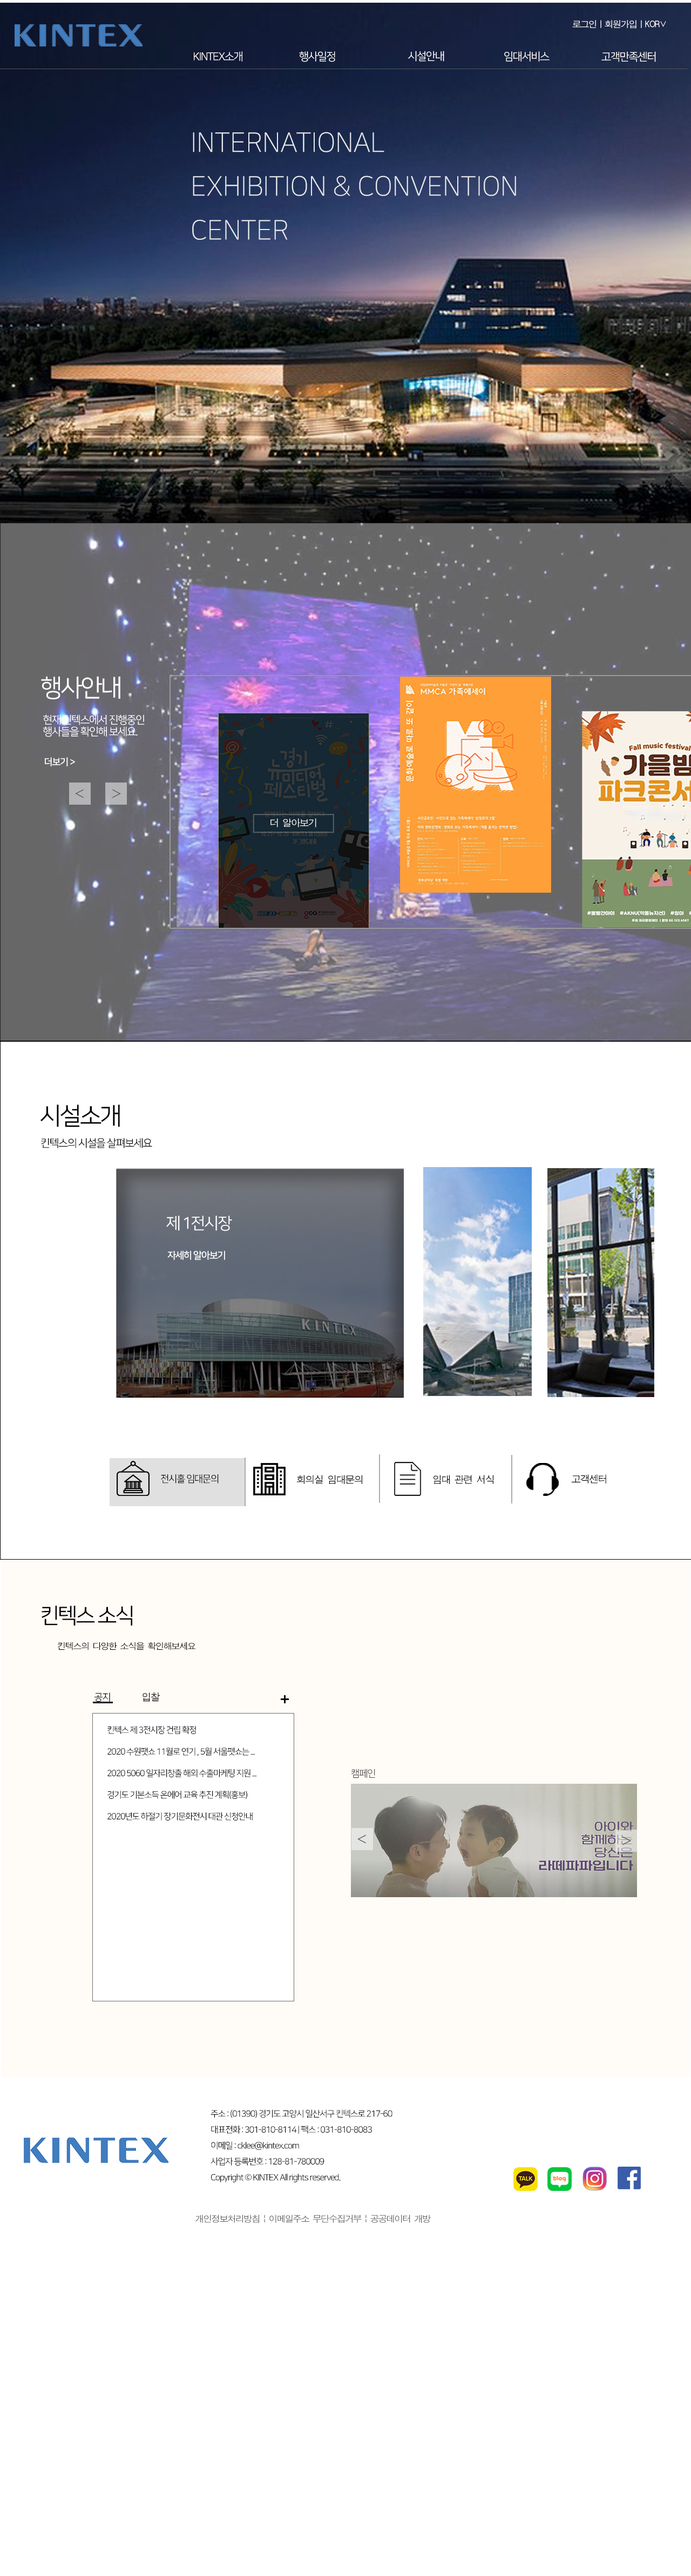
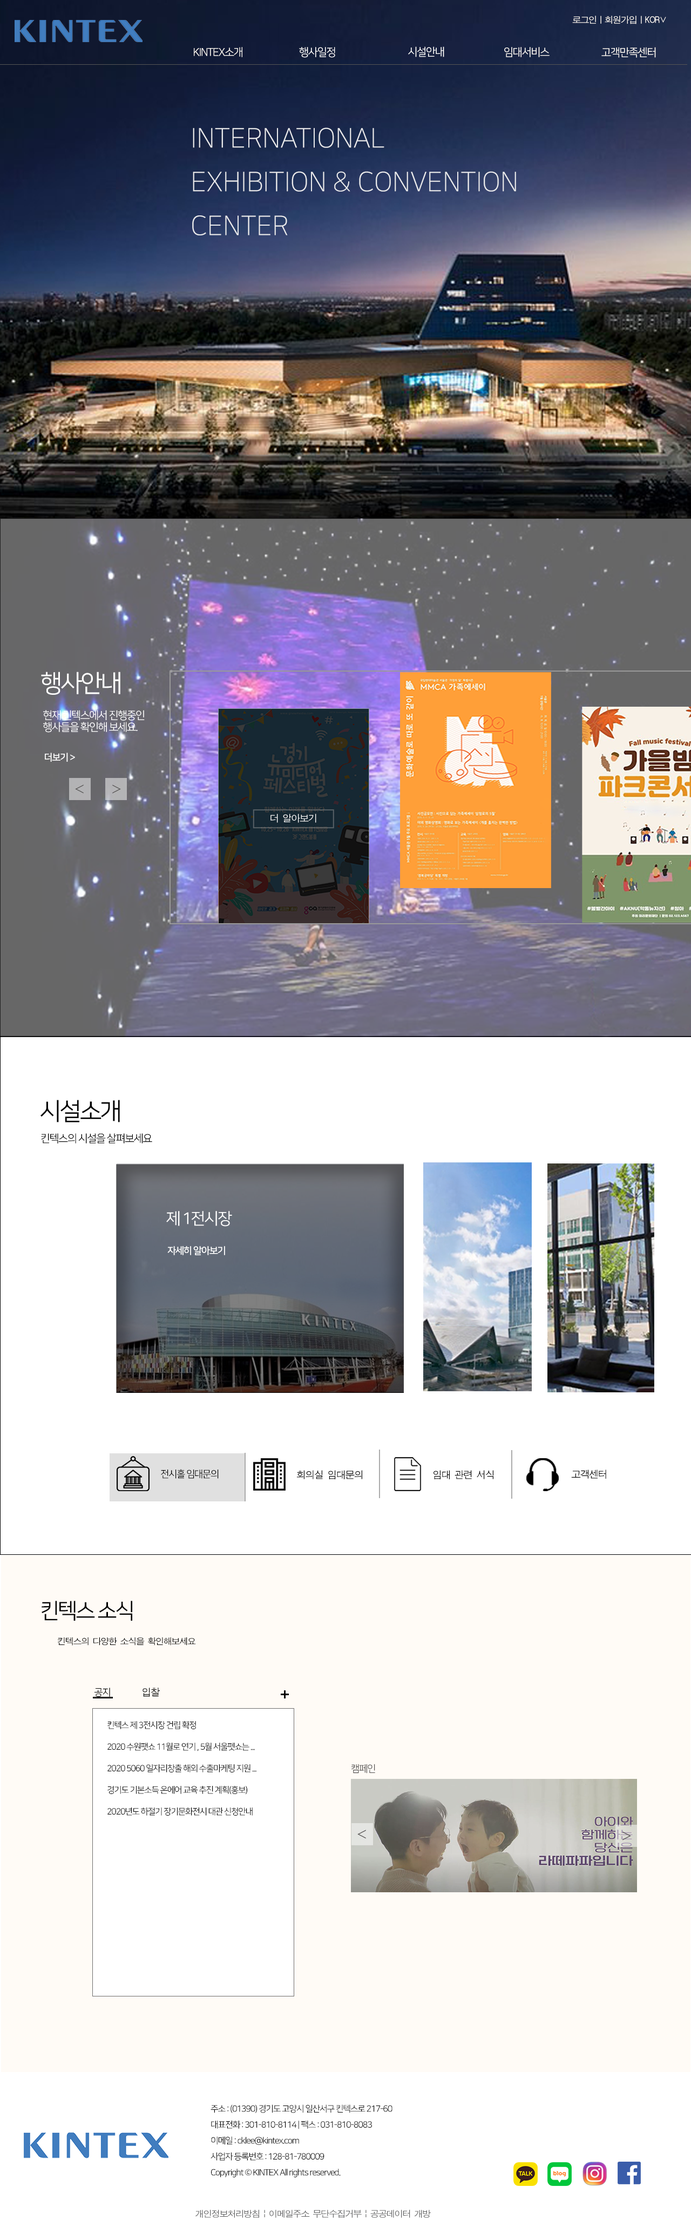
인덱스 및 css 수정

diff --git a/index.html b/index.html
@@ -58,7 +58,8 @@ h2{
   </header><!--헤더-->
   <section id="sec1">
      <video src="img/main_bg.mp4" muted autoplay></video>
-      <p class="result" style="font-size: 30px;"></p>      
+      <p class="result"></p>   
+      <p class="second">박지현의 포트폴리오입니다.</p>
   </section><!--ㅡmain1-->
    
   <section id="sec2">  
@@ -93,7 +94,7 @@ h2{
         </ul>
         <div class="about_txt">
             <i class="fas fa-quote-left"></i>
-            <span>아무말 아무말 아무말 아무말 아무말..주저리 주저리...</span>
+            <span>마음가짐, 장기적인 목표, 미래상 등등의 포부</span>
             <i class="fas fa-quote-right"></i>            
         </div>
      </article> 
@@ -120,18 +121,19 @@ h2{
               </li>
               <li>
                   <img class="view" src="img/mac.png" alt="모니터화면">
-                  <div class="slide_Up">
+                  <div class="slide_Up2">
                       <!--<img src="http://placehold.it/390x550" alt="">-->
                   </div>
                   <div class="explanation">
-                      <h3>01</h3>
-                      <p><span>프로젝트명</span> : ONLYBATH 가상홈페이지 제작[팀프로젝트]</p>
-                      <p><span>설명</span> : 최근 인테리어 시공업체의 디자인 트렌드를 조사 후에 가상의 회사의 컨셉을 설정. 
+                      <h3>02</h3>
+                      <p>프로젝트명<span> : ONLYBATH 가상홈페이지 제작[팀프로젝트]</span></p>
+                      <p>설명<span class="text"> : 최근 인테리어 시공업체의 디자인 트렌드를 조사 후에 가상의 회사의 컨셉을 설정. 
                                              ONLYBATH는 욕실전문 시공업체로 설정하였으며 방송협찬, 관공서인테리어, 가정집 등 다양한 곳에서의 인테리어 디자인을 맡아서 디자인 및 제작 한다.
+                            </span>
                       </p>
-                    <p><span>제작기간</span> : 3주 </p>
-                    <p><span>지원기기</span> : PC, Tablet, Mobile</p>
-                    <p><span>디자인 컨셉</span> : </p>
+                    <p>제작기간<span> : 3주</span> </p>
+                    <p>지원기기<span> : PC, Tablet, Mobile</span></p>
+                    <p>담당<span> : 메인의 슬라이드, section2, section4, Sup-page중 community 페이지 100%</span></p>
                     <a href="https://hjp8373.github.io/onlybath/index.html" target="_blank">MORE VIEW</a>
                     <a href="https://github.com/hjp8373/onlybath" target="_blank">MORE CODE</a>
                   </div>                
@@ -150,7 +152,7 @@ h2{
       <article class="art3">
           <h2>CONTACT ME</h2>
           <p>끝까지 봐주셔서 감사합니다 :&#41;</p>
-          <p>Pnoe : 010 - 5620 - 8373</p>
+          <p>Phone : 010 - 5620 - 8373</p>
           <p>E-mail : pormz5620@gmail.com</p>
       </article>      
   </section><!---->
@@ -204,7 +206,7 @@ h2{
     }
 
     //타이핑할 문장
-    var result  = "포트폴리오입니다.";
+    var result  = "웹퍼블리셔와 프론트앤드 개발자가 되고싶은.";
     var typeing1=[];
     result = result.split(''); // 한글자씩자름
 
@@ -246,11 +248,7 @@ h2{
             }
         }
     }, 4000);
-    
-    
-    $('#sec2 > .art2 > ul > li').fadeOut();    
-    $('#sec2 > .art2 > ul > .page').fadeIn();
-    
+     
     var canvas = $('#sec2 > .canvas'),
         card = $('#sec2 .art1 .effect-wrap'),
         t_box = $('#sec2 .art1 .about_txt');
@@ -280,10 +278,10 @@ h2{
                 console.log("sec2-top:"+ sec2.offset().top);
                 console.log("sec3-top:"+ sec3.offset().top);
                 /*if(st <)*/
-                if(st+150 >= sec2.offset().top && st <= sec3.offset().top-980) {
+                if(st+150 >= sec2.offset().top && st <= sec3.offset().top-950) {
                     $(".h-top ").show();
                     $(".h-bottom ").show();
-                    canvas.css({position:'fixed', top:'95px', left:'5%'});
+                    canvas.css({position:'fixed', top:'105px', left:'5%'});
                     canvas.find('>img').css('opacity', '1');
                     card.css('top', '150px');
                     t_box.css({position:'absolute', top:'650px', left:"40%"});
@@ -295,11 +293,20 @@ h2{
                     
                     card.css('top', '150px');
                 }
-                
-        
     });
-
-        
+    $('#sec2 > .art2 > ul > li').fadeOut();    
+    $('#sec2 > .art2 > ul > .page').fadeIn();
+    var list = $('#sec2 .art2 ul li'),
+        btn =$('#sec2 .art2 .btn_Box p');
+    
+    btn.click(function(){
+       var ii = $(this).index();
+        console.log(ii);
+        $('#sec2 .art2 .btn_Box p').removeClass('tg');
+        btn.eq(ii).addClass('tg');
+        list.fadeOut();
+        list.eq(ii).fadeIn();
+    });
 </script>
 </body>
 </html>

diff --git a/css/main.css b/css/main.css
@@ -4,7 +4,7 @@ header{
     height: 70px;
     position: fixed;
     top: 0;
-    z-index: 500;
+    z-index: 1500;
     /*background: rgba(255,255,255,0.5);*/
     background: #fff;
    
@@ -41,8 +41,8 @@ header > div > ul > li p {
 header > div > ul > li.on {
     font-weight: bold
 }
-section{width: 100%;position: relative;}
-article, footer {width: 90%; margin: 0 auto;}
+section{width: 100%;position: relative;min-width: 1600px;}
+article, footer {width: 90%; margin: 0 auto; }
 #sec1 {
     height: 100vh;
     overflow: hidden;
@@ -50,14 +50,19 @@ article, footer {width: 90%; margin: 0 auto;}
 #sec1 video {
     width: 100%;
 }
-
-#sec1 p.result{      
-    display: inline-block;
+#sec1 p{
     font-size:30px;
     line-height: 28px;
     box-sizing: border-box; 
     position: absolute;
+}
+#sec1 p.result{         
     top: 50%;
+    left: 50%;
+    transform: translate(-50%, -50%);    
+}
+#sec1 p.second{    
+    top: 60%;
     left: 50%;
     transform: translate(-50%, -50%);    
 }
@@ -66,10 +71,10 @@ article, footer {width: 90%; margin: 0 auto;}
     overflow: hidden;
 }
 #sec2 .canvas {
-    height:820px;
+    height:800px;
     width: 90%;
     margin: 0 auto;
-    _z-index: 1500;
+    _z-index: 50;
     
     /*position: fixed;
     top: 150px;
@@ -77,6 +82,9 @@ article, footer {width: 90%; margin: 0 auto;}
 }
 #sec2 .canvas img{opacity: 0;}
 #sec2 .canvas .top {
+    position: absolute;
+    top: 0;
+    z-index: 500;
     width: 100%;
     transition: 2s;
 }
@@ -84,14 +92,14 @@ article, footer {width: 90%; margin: 0 auto;}
     position: absolute;
     top: 0;
     right: 0;
-    height: 820px;      
+    height: 800px;      
     transition: 4s;
 }
 #sec2 .canvas .ll{
     position: absolute;
     top: 0;
     left: 0;
-    height: 820px;       
+    height: 800px;       
     transition: 2s;
 }
 #sec2 .canvas .lb{
@@ -232,7 +240,7 @@ article, footer {width: 90%; margin: 0 auto;}
     top: 80px;
     width: 550px;
 }
-.slide_Up {
+.slide_Up  {
     position: absolute;
     width: 448px;
     height: 260px;
@@ -243,15 +251,26 @@ article, footer {width: 90%; margin: 0 auto;}
     background-size: 100% auto;            
     overflow: hidden;
     _cursor: pointer;
-    animation: slide_move 5s;
+    animation: slide_move 15s;
+}
+.slide_Up2{
+    position: absolute;
+    width: 448px;
+    height: 260px;
+    right: 182px;
+    top: 160px;
+    background: url('../img/onlybath_pc.png');
+    background-position: 0 0;
+    background-size: 100% auto;            
+    overflow: hidden;
+    _cursor: pointer;
+    animation: slide_move 10s;
 }
 .view:hover .slide_Up {
    
 }
-@keyframes slide_move {
-    0%{background-position: 0 0;}
-    50%{background-position: 0 50%;}
-  100% {background-position: 50% 100%;}
+@keyframes slide_move {   
+  100% {background-position: 0% 100%;}
 }
 #sec2 .art2 > ul > li > .explanation{
     width: 600px;
@@ -300,12 +319,14 @@ article, footer {width: 90%; margin: 0 auto;}
     border-radius: 25px;
     margin-right: 20px;
     transition: 3s;
-    cursor: pointer;
-}
-#sec2 .art2 .btn_Box p.tg{
-    background: url(../img/tg.png);
-    background-size: 90%;
+    cursor: pointer
+   
     
+}
+#sec2 .art2 .btn_Box p.tg{;
+    background-image: url(../img/tg.png);
+    background-size: 90%;
+    transition: 3s;
 }
 .hh {
     width: 100%;
@@ -317,12 +338,12 @@ article, footer {width: 90%; margin: 0 auto;}
 .h-top {
     top: 0;
     background: #fff;
-    height: 10vh;
+    height: 11vh;
     _background: pink;
     z-index: 100;
 }
 .h-bottom {
-    height: 4.7vh;
+    height: 6vh;
     bottom: 0;
     background: #fff;
     _background: pink;
